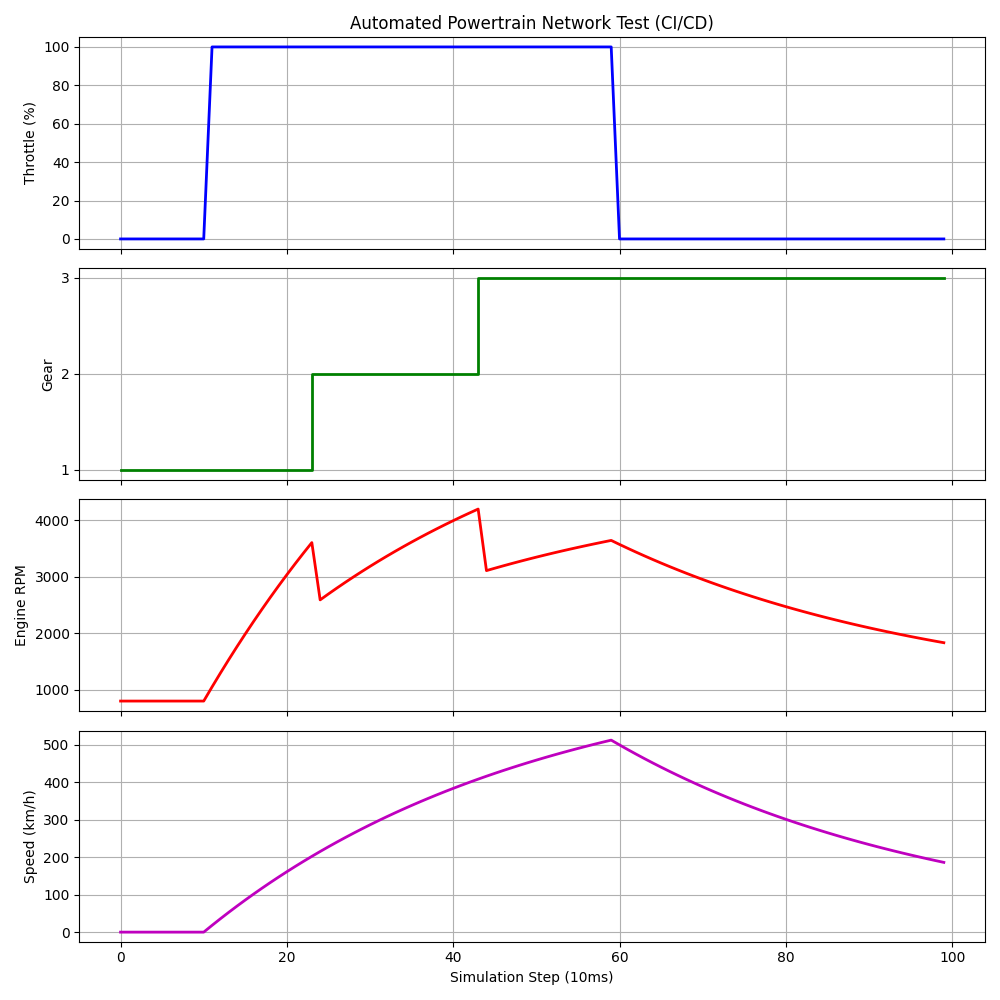
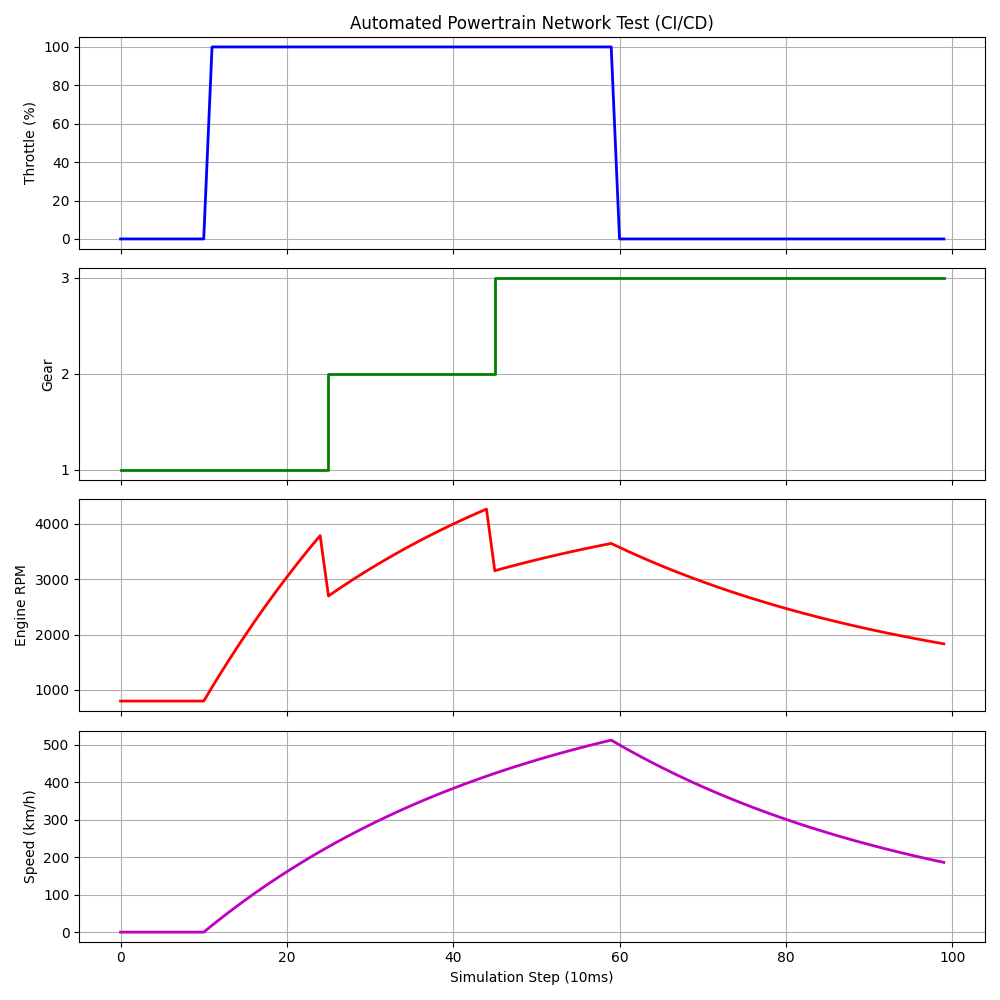
Implemented AUTOSTAR architrecutre

diff --git a/main.c b/main.c
@@ -1,47 +1,8 @@
 #include <stdio.h>
 #include <stdlib.h>
-#include "Virtual_CAN/vcan.h"
-#include "Engine_vECU/engine.h"
-#include "Transmission_vECU/transmission.h"
-#include "FMU_Plant/fmu_powertrain.h"
+#include "BSW/os_scheduler.h"
 
 int main(void) {
-    // 1. Initialize System
-    VCAN_Init();
-    Engine_Init();
-    Transmission_Init();
-    FMU_Init();
-    
-    Virtual_CAN_Bus_t* bus = VCAN_GetBus();
-    
-    // Print CSV Header for Python Testing
-    printf("Step,Throttle,Gear,RPM,Speed\n");
-    
-    // 2. The Global Virtual OS Loop (runs for 100 steps)
-    for (int step = 0; step < 100; step++) {
-        
-        // --- STIMULI INJECTION (From Python test script) ---
-        // For testing, if step > 10, the driver pushes the gas pedal to 100%
-        if (step > 10 && step < 60) {
-            bus->throttle_pedal = 100.0f;
-        } else if (step >= 60) {
-            // Driver releases the gas pedal
-            bus->throttle_pedal = 0.0f; 
-        }
-        
-        // --- RUN DISTRIBUTED SYSTEM ---
-        Engine_Task();
-        FMU_DoStep();
-        Transmission_Task();
-        
-        // --- READ MEASUREMENTS ---
-        printf("%d,%.1f,%d,%.2f,%.2f\n", 
-               step, 
-               bus->throttle_pedal, 
-               bus->current_gear, 
-               bus->engine_rpm,
-               bus->vehicle_speed_kmh);
-    }
-    
+    OS_Start();
     return 0;
 }

diff --git a/BSW/os_scheduler.c b/BSW/os_scheduler.c
@@ -1,0 +1,48 @@
+#include "os_scheduler.h"
+#include <stdio.h>
+#include "../Engine_vECU/engine.h"
+#include "../Transmission_vECU/transmission.h"
+#include "../FMU_Plant/fmu_powertrain.h"
+#include "../Virtual_CAN/vcan.h"
+void OS_Start(void)
+{
+    VCAN_Init();
+    Engine_Init();
+    Transmission_Init();
+    FMU_Init();
+    
+    printf("Step,Throttle,Gear,RPM,Speed\n");
+
+    Virtual_CAN_Bus_t* bus = VCAN_GetBus();
+    for (int step = 0; step < 100; step++) {
+        
+        // --- STIMULI INJECTION (From Python test script) ---
+        // For testing, if step > 10, the driver pushes the gas pedal to 100%
+        if (step > 10 && step < 60) {
+            bus->throttle_pedal = 100.0f;
+        } else if (step >= 60) {
+            // Driver releases the gas pedal
+            bus->throttle_pedal = 0.0f; 
+        }
+
+        // --- RUN DISTRIBUTED SYSTEM ---
+        if(step % 1 == 0){
+            Engine_Task();
+        }
+
+        if(step % 5 == 0){
+            Transmission_Task();
+        }
+
+        FMU_DoStep();
+        
+        
+        // --- READ MEASUREMENTS ---
+        printf("%d,%.1f,%d,%.2f,%.2f\n", 
+               step, 
+               bus->throttle_pedal, 
+               bus->current_gear, 
+               bus->engine_rpm,
+               bus->vehicle_speed_kmh);
+    }
+}

diff --git a/Transmission_vECU/transmission.c b/Transmission_vECU/transmission.c
@@ -1,5 +1,5 @@
 #include "transmission.h"
-#include "../Virtual_CAN/vcan.h"
+#include "../RTE/rte.h"
 
 static int internal_gear = 1;
 static int shift_cooldown = 0; // Prevent shifting too fast
@@ -11,8 +11,7 @@ void Transmission_Init(void) {
 
 void Transmission_Task(void) {
     // 1. Read Network Inputs (from Virtual CAN)
-    Virtual_CAN_Bus_t* bus = VCAN_GetBus();
-    float rpm = bus->engine_rpm;
+    float rpm = Rte_Read_EngineRpm();
     
     // Manage cooldown timer
     if (shift_cooldown > 0) {
@@ -24,15 +23,15 @@ void Transmission_Task(void) {
         // Shift UP if RPM is too high
         if (rpm > 3500.0f && internal_gear < 3) {
             internal_gear++;
-            shift_cooldown = 20; // Wait 20 cycles before shifting again
+            shift_cooldown = 4; // Wait 4 cycles before shifting again
         }
         // Shift DOWN if RPM is too low
         else if (rpm < 1500.0f && internal_gear > 1) {
             internal_gear--;
-            shift_cooldown = 20; 
+            shift_cooldown = 4; 
         }
     }
     
     // 3. Write Network Output (Broadcast Gear to Virtual CAN)
-    bus->current_gear = internal_gear;
+    Rte_Write_CurrentGear(internal_gear);
 }

diff --git a/FMU_Plant/fmu_powertrain.c b/FMU_Plant/fmu_powertrain.c
@@ -4,6 +4,11 @@
 // Internal Physics State
 static float vehicle_speed = 0.0f; // m/s
 static float internal_rpm = 800.0f;
+static float electrical_power_cmd = 0.0f;
+
+void FMU_SetEnginePower(float power_cmd) {
+    electrical_power_cmd = power_cmd;
+}
 
 void FMU_Init(void) {
     vehicle_speed = 0.0f;
@@ -13,7 +18,7 @@ void FMU_Init(void) {
 void FMU_DoStep(void) {
     // 1. Read Inputs (from Virtual Environment)
     Virtual_CAN_Bus_t* bus = VCAN_GetBus();
-    float engine_power = bus->engine_power_cmd; 
+    float engine_power = electrical_power_cmd; // Simulating the ECU control via physical wires, not via CAN
     int gear = bus->current_gear;
     
     // 2. Physics Equations
@@ -33,3 +38,4 @@ void FMU_DoStep(void) {
     bus->engine_rpm = internal_rpm;
     bus->vehicle_speed_kmh = vehicle_speed * 3.6f;
 }
+

diff --git a/Engine_vECU/engine.c b/Engine_vECU/engine.c
@@ -1,5 +1,5 @@
 #include "engine.h"
-#include "../Virtual_CAN/vcan.h"
+#include "../RTE/rte.h"
 
 static float internal_rpm = 800.0f; // Idle RPM
 
@@ -9,13 +9,12 @@ void Engine_Init(void) {
 
 void Engine_Task(void) {
     // 1. Read Inputs (from Virtual CAN)
-    Virtual_CAN_Bus_t* bus = VCAN_GetBus();
-    float throttle = bus->throttle_pedal;  // 0.0 to 100.0 %
+    float throttle = Rte_Read_ThrottlePedal();  // 0.0 to 100.0 %
     
     // 2. Engine Control Logic (e.g., Throttle mapping, torque limiting)
     // In a real ECU, this would be a massive map. We just pass it through.
     float power_cmd = throttle; 
     
     // 3. Write Output (Broadcast Power Command to FMU)
-    bus->engine_power_cmd = power_cmd;
+    Rte_Write_EnginePowerCmd(power_cmd);
 }

diff --git a/BSW/com.c b/BSW/com.c
@@ -1,0 +1,21 @@
+#include "com.h"
+#include "../Virtual_CAN/vcan.h"
+float Com_ReceiveThrottle(void){
+    Virtual_CAN_Bus_t* bus = VCAN_GetBus();
+    return bus->throttle_pedal;
+}
+
+void Com_SendEnginePowerCmd(float power_cmd){
+    Virtual_CAN_Bus_t* bus = VCAN_GetBus();
+    bus->engine_power_cmd = power_cmd;
+}
+
+float Com_ReceiveEngineRpm(void){
+    Virtual_CAN_Bus_t* bus = VCAN_GetBus();
+    return bus->engine_rpm;
+}
+
+void Com_SendCurrentGear(int gear){
+    Virtual_CAN_Bus_t* bus = VCAN_GetBus();
+    bus->current_gear = gear;
+}

diff --git a/RTE/rte.c b/RTE/rte.c
@@ -1,0 +1,19 @@
+#include "rte.h"
+#include "../BSW/com.h"
+#include "../MCAL/mcal_virtual.h"
+
+float Rte_Read_ThrottlePedal(void) {
+    return Com_ReceiveThrottle();
+}
+
+void Rte_Write_EnginePowerCmd(float power_cmd) {
+    Mcal_PWM_SetDutyCycle(power_cmd);
+}
+
+float Rte_Read_EngineRpm(void) {
+    return Com_ReceiveEngineRpm();
+}
+
+void Rte_Write_CurrentGear(int gear) {
+    Com_SendCurrentGear(gear);
+}

diff --git a/RTE/rte.h b/RTE/rte.h
@@ -1,0 +1,10 @@
+#ifndef RTE_H
+#define RTE_H
+
+float Rte_Read_ThrottlePedal(void);
+void Rte_Write_EnginePowerCmd(float power_cmd);
+
+float Rte_Read_EngineRpm(void);
+void Rte_Write_CurrentGear(int gear);
+
+#endif // RTE_H

diff --git a/BSW/com.h b/BSW/com.h
@@ -1,0 +1,7 @@
+#ifndef COM_H
+#define COM_H
+float Com_ReceiveThrottle(void);
+void Com_SendEnginePowerCmd(float power_cmd);
+float Com_ReceiveEngineRpm(void);
+void Com_SendCurrentGear(int gear);
+#endif // COM_H

diff --git a/FMU_Plant/fmu_powertrain.h b/FMU_Plant/fmu_powertrain.h
@@ -7,4 +7,5 @@ void FMU_Init(void);
 // Step the physical simulation forward in time (dt = 0.1s)
 void FMU_DoStep(void);
 
+void FMU_SetEnginePower(float power_cmd);
 #endif

diff --git a/MCAL/mcal_virtual.c b/MCAL/mcal_virtual.c
@@ -1,0 +1,6 @@
+#include "mcal_virtual.h"
+#include "../FMU_Plant/fmu_powertrain.h"
+
+void Mcal_PWM_SetDutyCycle(float duty_cycle){
+    FMU_SetEnginePower(duty_cycle);
+}

diff --git a/MCAL/mcal_virtual.h b/MCAL/mcal_virtual.h
@@ -1,0 +1,6 @@
+#ifndef MCAL_VIRTUAL_H
+#define MCAL_VIRTUAL_H
+
+void Mcal_PWM_SetDutyCycle(float duty_cycle);
+
+#endif
